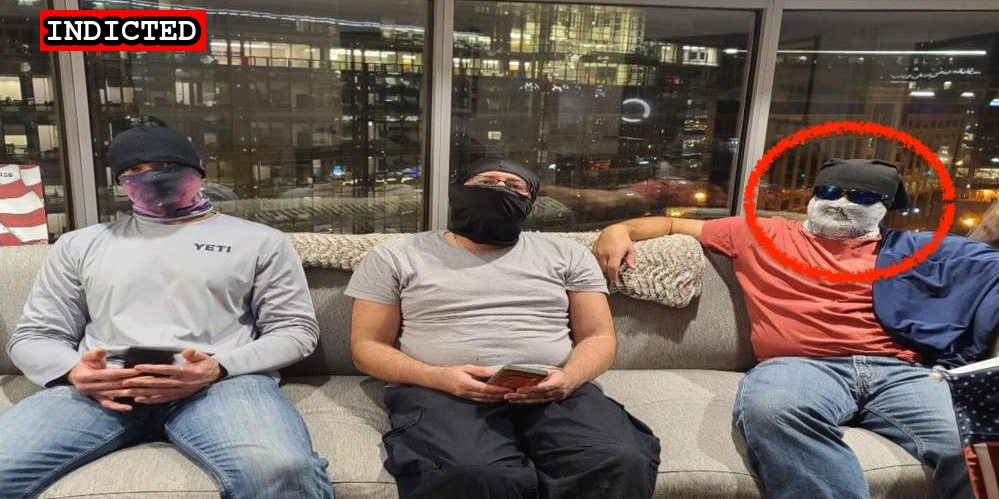
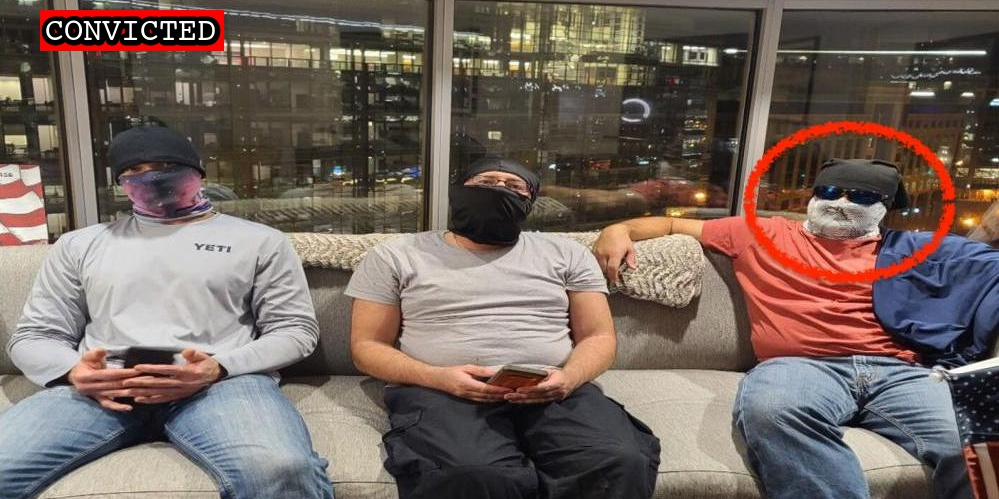
George Tenney plea

Changed region(s): [[0.031, 0.0, 0.2482, 0.1202]]

diff --git a/docs/_suspects/george-tenney.md b/docs/_suspects/george-tenney.md
@@ -4,16 +4,18 @@ lastName: Tenney
 hashtag: ScruffyBouncer
 aka:
 residence: Texas
-status: Indicted
+status: Convicted
 date: 2021-06-29
 charged: 2021-06-29
 indicted: 2021-10-22
-convicted:
+convicted: 2022-06-30
+acquitted:
 sentenced:
 dismissed:
 deceased:
-plea_hearing:
-sentencing:
+plea_hearing: 2022-06-30
+trial_date:
+sentencing: 2022-10-20
 age: 34
 occupation:
 affiliations:
@@ -34,8 +36,19 @@ published: true
 caseNumber:
 videos:
 charges:
+  - code: 18 USC § 1512(c)(2)
+    title: Obstruction of an Official Proceeding
+    url: https://www.law.cornell.edu/uscode/text/18/1512
+    felony: true
+  - code: 18 USC § 231(a)(3)
+    title: Civil Disorder
+    url: https://www.law.cornell.edu/uscode/text/18/231
+    felony: true
 sentence:
 ---
+
 - [News Report](https://www.postandcourier.com/news/south-carolina-men-charged-in-riot-at-u-s-capitol/article_defc5150-d907-11eb-997d-9353862128d9.html)
 - [Statement of Facts](https://www.justice.gov/usao-dc/case-multi-defendant/file/1412476/download)
 - [Indictment](https://www.justice.gov/usao-dc/case-multi-defendant/file/1459296/download)
+- [Plea Agreement](https://storage.courtlistener.com/recap/gov.uscourts.dcd.236782/gov.uscourts.dcd.236782.51.0.pdf)
+- [Statement of Offense](https://storage.courtlistener.com/recap/gov.uscourts.dcd.236782/gov.uscourts.dcd.236782.52.0.pdf)
